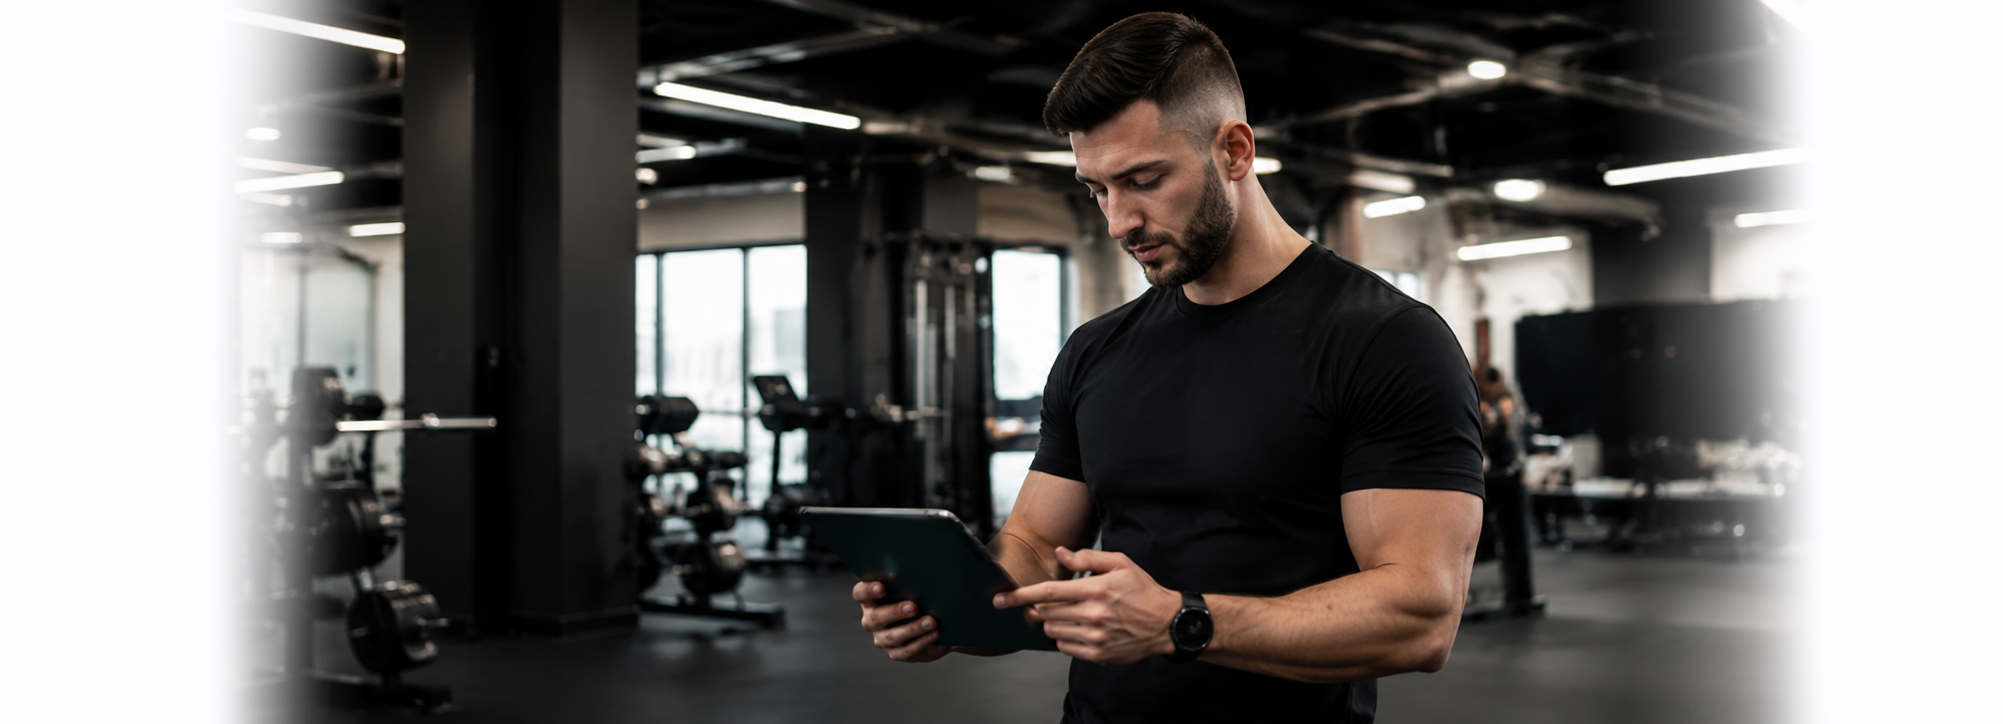
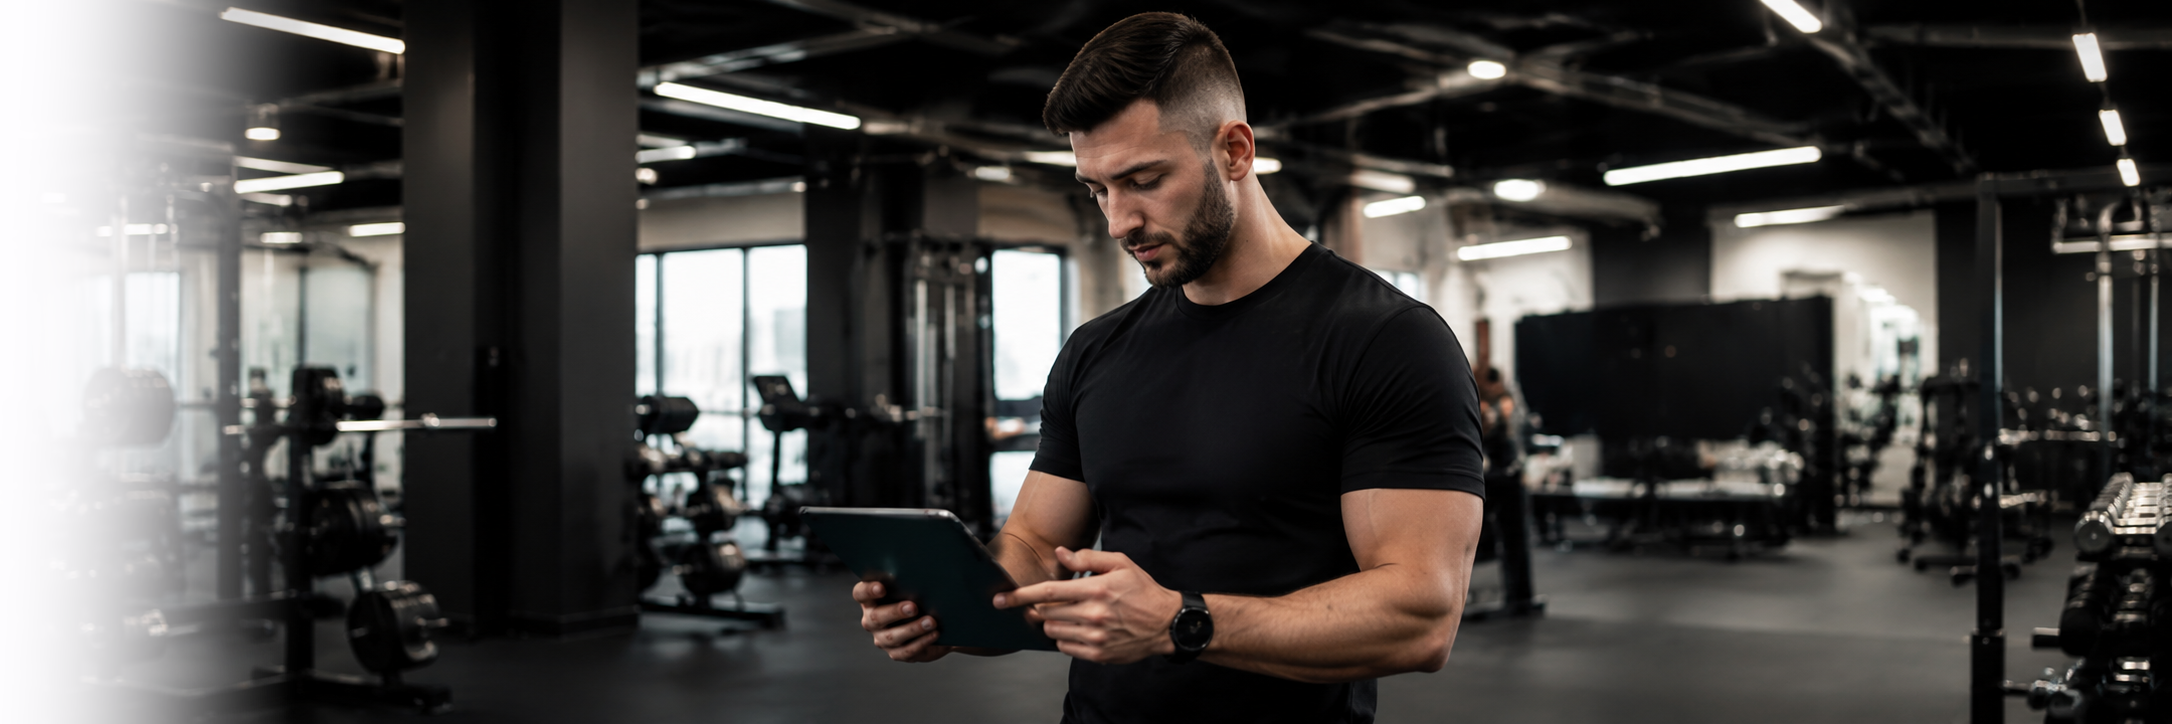
update WhatsApp links and improve layout for better user experience

diff --git a/index.html b/index.html
@@ -1,4 +1,4 @@
-<!DOCTYPE html>
+<!DOCTYPE html>
 <html lang="en">
 <head>
   <meta charset="UTF-8">
@@ -13,7 +13,7 @@
 <body>
 
   <header class="site-header" id="top">
-    <nav class="navbar header-minimal"><a class="brand" href="#top" aria-label="Performance Lifestyle Services home"><img src="assets/img/logo/logo.png" alt="Performance Lifestyle Services"></a><div class="nav-actions nav-actions-right"><a class="btn btn-outline" href="https://wa.me/0000000000"><i class="fa-brands fa-whatsapp"></i> Message on WhatsApp</a></div></nav>
+    <nav class="navbar header-minimal"><a class="brand" href="#top" aria-label="Performance Lifestyle Services home"><img src="assets/img/logo/logo.png" alt="Performance Lifestyle Services"></a><div class="nav-actions nav-actions-right"><a class="btn btn-outline" href="https://wa.me/447951035992"><i class="fa-brands fa-whatsapp"></i> Message on WhatsApp</a></div></nav>
   </header>
 
   <main>
@@ -24,7 +24,7 @@
         <span class="rule"></span>
         <p class="hero-text">Expert 1-to-1 coaching in London & online to help you train smarter, eat better, and achieve your peak.</p>
         <div class="hero-actions">
-          <a class="btn btn-outline" href="https://wa.me/0000000000"><i class="fa-brands fa-whatsapp"></i> Message on WhatsApp</a>
+          <a class="btn btn-outline" href="https://wa.me/447951035992"><i class="fa-brands fa-whatsapp"></i> Message on WhatsApp</a>
         </div>
       </div>
     </section>
@@ -185,13 +185,13 @@
       <div class="cta-copy">
         <h2>Ready to Build Your Peak Physique?</h2>
         <p>Let's build a plan that gets you real results.</p>
+        <div class="cta-actions">
+          <a class="btn btn-outline" href="https://wa.me/447951035992"><i class="fa-brands fa-whatsapp"></i> Message on WhatsApp</a>
+        </div>
       </div>
       <div class="cta-image" data-image="assets/img/banner/ready-banner/ready-banner.png">
         <img src="assets/img/banner/ready-banner/ready-banner.png" alt="Ready to build banner">
         <div class="image-fallback">Coach Image</div>
-      </div>
-      <div class="cta-actions">
-        <a class="btn btn-outline" href="https://wa.me/0000000000"><i class="fa-brands fa-whatsapp"></i> Message on WhatsApp</a>
       </div>
     </section>
   </main>
@@ -219,7 +219,7 @@
       </div>
       <p class="whatsapp-copy">Tell us your goal and we will help you choose the right coaching plan.</p>
       <textarea id="whatsappMessage" rows="4">Hi Performance Lifestyle Services, I want to start coaching. Can you help me?</textarea>
-      <a class="btn btn-gold whatsapp-send" href="https://wa.me/0000000000?text=Hi%20Peak%20Physique%20Coaching%2C%20I%20want%20to%20start%20coaching.%20Can%20you%20help%20me%3F" target="_blank" rel="noopener">
+      <a class="btn btn-gold whatsapp-send" href="https://wa.me/447951035992?text=Hi%20Peak%20Physique%20Coaching%2C%20I%20want%20to%20start%20coaching.%20Can%20you%20help%20me%3F" target="_blank" rel="noopener">
         <i class="fa-brands fa-whatsapp"></i> Send on WhatsApp
       </a>
     </div>

diff --git a/assets/css/style.css b/assets/css/style.css
@@ -547,7 +547,7 @@ cite {
 
 .cta-panel {
   display: grid;
-  grid-template-columns: 1fr minmax(340px, 430px) 240px;
+  grid-template-columns: 1fr 1fr;
   align-items: center;
   gap: 24px;
   max-width: 1210px;
@@ -561,7 +561,8 @@ cite {
 }
 
 .cta-copy {
-  padding-left: 88px;
+  /* padding-left: 88px; */
+  padding: 20px 0px 20px 50px;
 }
 
 .cta-copy h2 {
@@ -579,6 +580,7 @@ cite {
   flex-direction: column;
   align-items: stretch;
   padding-right: 44px;
+  margin-top: 15px;
 }
 
 .back-to-top {
@@ -712,7 +714,7 @@ cite {
   }
 
   .brand img {
-    width: 124px;
+    width: 150px;
   }
 
   .hero {
@@ -1259,6 +1261,7 @@ body {
   .header-minimal .brand {
     width: 132px;
     min-width: 132px;
+    justify-self: center;
   }
 
   .header-minimal .nav-actions,

diff --git a/assets/js/script.js b/assets/js/script.js
@@ -63,7 +63,7 @@ const whatsappModal = document.querySelector(".whatsapp-modal");
 const whatsappClose = document.querySelector(".whatsapp-close");
 const whatsappMessage = document.querySelector("#whatsappMessage");
 const whatsappSend = document.querySelector(".whatsapp-send");
-const whatsappBaseUrl = "https://wa.me/0000000000?text=";
+const whatsappBaseUrl = "https://wa.me/447951035992?text=";
 
 const updateWhatsAppLink = () => {
   if (!whatsappMessage || !whatsappSend) return;
